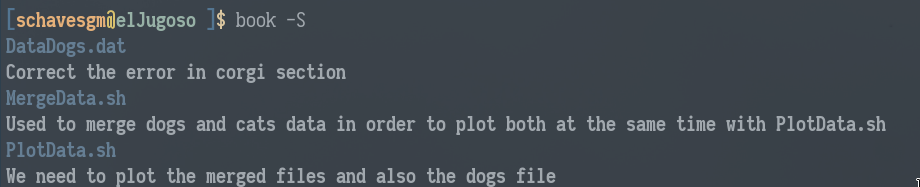
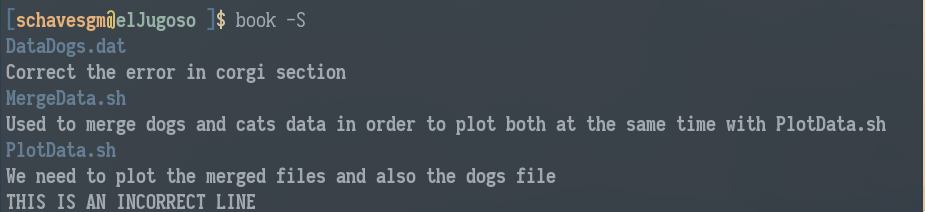
Added remove and delete sections to tutorial

Changed region(s): [[0.0, 0.0267, 0.9739, 1.0], [0.9739, 0.9358, 1.0, 0.9893]]

diff --git a/README.md b/README.md
@@ -46,6 +46,30 @@ and then append comments to them using **-i nameFile -a Comment**.
 
 ![More Pic](./Images/MorePic.png)
 
+Oh!! As you can see, there is an **INCORRECT** line. Let's try deleting
+that line using the tag **-d**. We can use this tag in two ways, the
+first one requires providing the line number of the comment to delete.
+For each file, the lines go from zero to N-1. In our case, the file
+*PlotData.sh* has two comments, the one we would like to delete is
+the line number 1. We can also use the delete tag providing a substring,
+in case this string is contained in any of the lines in the file, it will
+delete it. NOTE that if the string provided is contained in more than one
+line, it will delete all the matched lines. Let's delete that ugly comment.
+
+![Del Pic](./Images/DelPic.png)
+
+After this, we are ready to do our job. Imagine we finish our tasks and we
+do want to delete everything related to a specific file. In order to do so
+we might want to use the tag **-r**. This tag will remove everything attached
+to a file. Let's delete everything related to the file *PlotData.dat*.
+
+![Rem Pic](./Images/RemPic.png)
+
+
+
+
+
+
 
 
 
